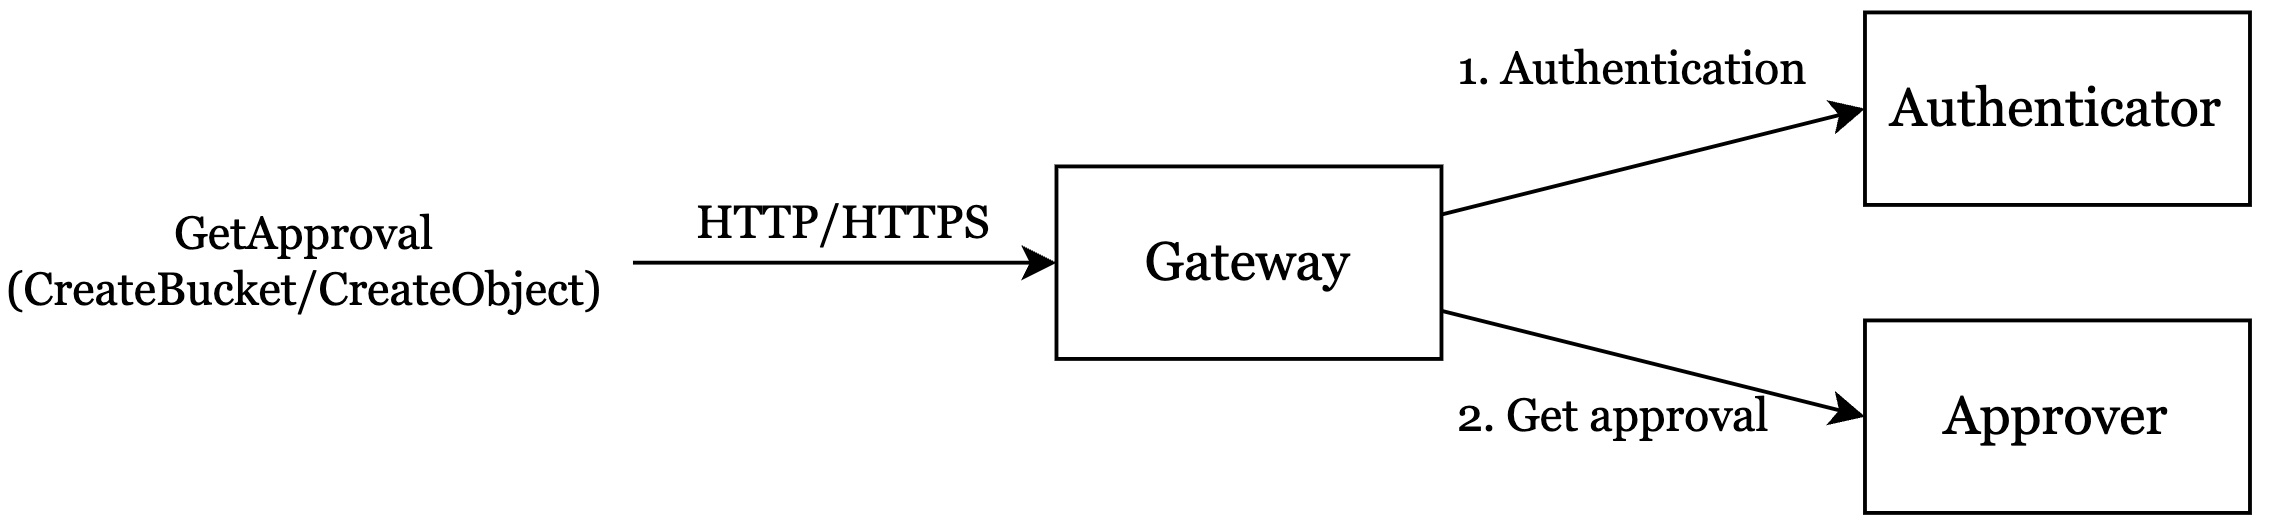
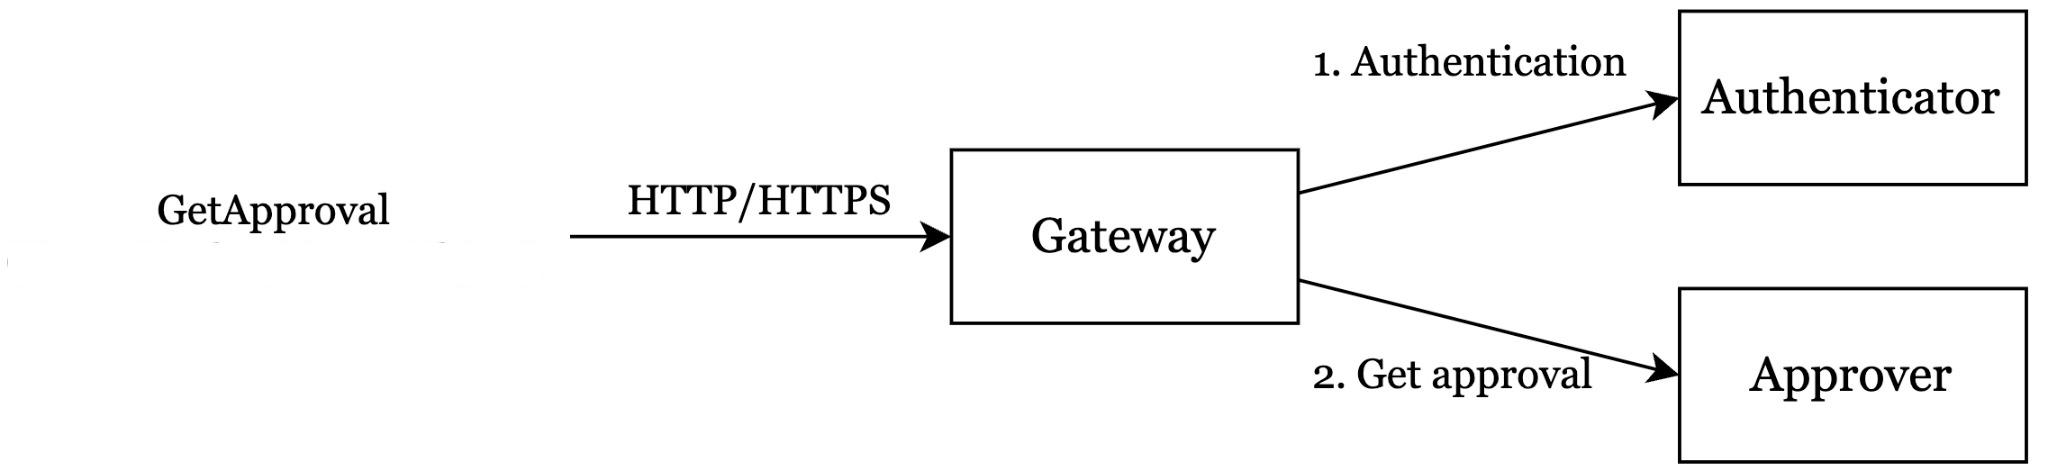
docs: remove create bucket&object (#334)
* docs: remove create bucket&object

* fix: update comments

Changed region(s): [[0.0, 0.5064, 0.2812, 0.5957], [0.8438, 0.983, 0.9688, 1.0]]

diff --git a/docs/api/storage-provider-rest/get_approval.md b/docs/api/storage-provider-rest/get_approval.md
@@ -6,7 +6,7 @@ title: Get Approval
 
 ## RESTful API Description
 
-This API is used to sign an approval for creating a bucket action or creating an object action. And it only supports `path-style` requests.
+This API is used to sign an approval for migrating bucket action. And it only supports `path-style` requests.
 
 ## HTTP Request Format
 
@@ -25,34 +25,15 @@ This API only supports path-style requests.
 | X-Gnfd-Unsigned-Msg                                                      | string | yes      | defines unsigned msg                         |
 | [Authorization](../storage-provider-rest/README.md#authorization-header) | string | yes      | The authorization string of the HTTP request |
 
-X-Gnfd-Unsigned-Msg header consists of [MsgCreateBucket](#msgcreatebucket) and [MsgCreateObject](#msgcreateobject). You can read [Greenfield headers](../storage-provider-rest/README.md) to know how to marshal and unmarshal them.
+X-Gnfd-Unsigned-Msg header consists of [MsgMigrateBucket](#msgmigratebucket). You can read [Greenfield headers](../storage-provider-rest/README.md) to know how to marshal and unmarshal them.
 
-### MsgCreateBucket
-
-| ParameterName     | Type                              | Description                                                                                                                                                                                                         |
-| ----------------- | --------------------------------- | ------------------------------------------------------------------------------------------------------------------------------------------------------------------------------------------------------------------- |
-| Creator           | string                            | Creator is the account address of bucket creator, it is also the bucket owner.                                                                                                                                      |
-| BucketName        | string                            | BucketName is a globally unique name of bucket.                                                                                                                                                                     |
-| Visibility        | [VisibilityType](#visibilitytype) | visibility means the bucket is private or public. If private, only bucket owner or grantee can read it, otherwise every greenfield user can read it.                                                                |
-| PaymentAddress    | string                            | PaymentAddress is an account address specified by bucket owner to pay the read fee. Default: creator.                                                                                                               |
-| PrimarySpAddress  | string                            | PrimarySpAddress  is the address of primary sp.                                                                                                                                                                     |
-| PrimarySpApproval | [Approval](#approval)             | PrimarySpApproval is the approval info of the primary SP which indicates that primary sp confirm the user's request.                                                                                                |
-| ChargedReadQuota  | unsigned integer                  | ChargedReadQuota defines the read data that users are charged for, measured in bytes. The available read data for each user is the sum of the free read data provided by SP and the ChargeReadQuota specified here. |
-
-### MsgCreateObject
-
-| ParameterName              | Type                              | Description                                                                                                                                                  |
-| -------------------------- | --------------------------------- | ------------------------------------------------------------------------------------------------------------------------------------------------------------ |
-| Creator                    | string                            | Creator is the account address of object uploader.                                                                                                           |
-| BucketName                 | string                            | BucketName is the name of the bucket where the object is stored.                                                                                             |
-| ObjectName                 | string                            | ObjectName is the name of object.                                                                                                                            |
-| PayloadSize                | integer                           | PayloadSize is size of the object's payload.                                                                                                                 |
-| Visibility                 | [VisibilityType](#visibilitytype) | VisibilityType means the object is private or public. If private, only object owner or grantee can access it, otherwise every greenfield user can access it. |
-| ContentType                | string                            | ContentType is a standard MIME type describing the format of the object.                                                                                     |
-| PrimarySpApproval          | [Approval](#approval)             | PrimarySpApproval is the approval info of the primary SP which indicates that primary sp confirm the user's request.                                         |
-| ExpectChecksums            | byteArray                         | ExpectChecksums is a list of hashes which was generate by redundancy algorithm.                                                                              |
-| RedundancyType             | [RedundancyType](#redundancytype) | RedundancyType specifies which redundancy type is used.                                                                                                      |
-| ExpectSecondarySpAddresses | stringArray                       | ExpectSecondarySpAddresses is a list of StorageProvider address which is optional.                                                                           |
+### MsgMigrateBucket
+| ParameterName        | Type                              | Description                                                                                                                                                                                                         |
+| ---------------------| --------------------------------- | ----------------------------------------------------------------------------------------------------------------------- |
+| Operator             | string                            | Operator defines the account address of the operator who initial the migrated bucket                                     |
+| BucketName           | string                            | BucketName is a globally unique name of bucket.                                                                         |
+| DstPrimarySpId       | uint32                            | DstPrimarySpId defines the destination SP for migration                                                                 |
+| DstPrimarySpApproval | [Approval](#approval)             | DstPrimarySpApproval is the approval info of the primary SP which indicates that primary sp confirm the user's request. |
 
 ### Approval
 
@@ -91,7 +72,7 @@ The request does not have a path parameter.
 
 | ParameterName | Type   | Required | Description                                             |
 | ------------- | ------ | -------- | ------------------------------------------------------- |
-| action        | string | yes      | The action of approval:`CreateBucket` or `CreateObject` |
+| action        | string | yes      | The action of approval:`MigrateBucket`                  |
 
 ### Request Body
 
@@ -136,19 +117,19 @@ X-Gnfd-Signed-Msg: SignedMsg
 
 The examples given all use path-style.
 
-### Example 1: Create bucket
+### Example 1: Migrate bucket
 
-The following request sends `CreateBucket` action to get approval.
+The following request sends `MigrateBucket` action to get approval.
 
 ```HTTP
-GET /greenfield/admin/v1/get-approval?action=CreateBucket HTTP/1.1
+GET /greenfield/admin/v1/get-approval?action=MigrateBucket HTTP/1.1
 Host: gnfd-testnet-sp1.bnbchain.org
 Date: Fri, 31 March 2023 17:32:00 GMT
 X-Gnfd-Unsigned-Msg: unsigned msg string
 Authorization: authorization string
 ```
 
-### Sample Response: Create bucket successfully
+### Sample Response: Migrate bucket successfully
 
 ```HTTP
 HTTP/1.1 200 OK
@@ -156,32 +137,12 @@ X-Gnfd-Request-ID: 14779951378820359452
 X-Gnfd-Signed-Msg: df5857b2ac67b491ba6d9c6632618be7fb22de13662356b593d74103408cf1af46eed90edaa77bdb65b12fc63ee3bec8314ad7bb0f3ae099ccf7dafe22abff2e01
 ```
 
-## Example 2: Create object
+## Example 2: Failed to migrate bucket
 
-The following request sends `CreateObject` action to get approval.
-
-```HTTP
-GET /greenfield/admin/v1/get-approval?action=CreateObject HTTP/1.1
-Host: gnfd-testnet-sp1.bnbchain.org
-Date: Fri, 31 March 2023 17:32:00 GMT
-X-Gnfd-Unsigned-Msg: unsigned msg string
-Authorization: authorization string
-```
-
-### Sample Response: Create object successfully
+The following request sends `MigrateBucket` action to get approval.
 
 ```HTTP
-HTTP/1.1 200 OK
-X-Gnfd-Request-ID: 4208447844380058399
-X-Gnfd-Signed-Msg: f00daace3251076f270984e596bbd72b1b1f2a1ae0443e6f32f37cef73d541d568a542333f6a9af2f235724d2a763b3cdc0b370d978d0315b8414fa51fc32a2e00
-```
-
-## Example 3: Failed to create bucket
-
-The following request sends `CreateBucket` action to get approval.
-
-```HTTP
-GET /greenfield/admin/v1/get-approval?action=CreateBucket HTTP/1.1
+GET /greenfield/admin/v1/get-approval?action=MigrateBucket HTTP/1.1
 Host: gnfd-testnet-sp1.bnbchain.org
 Date: Fri, 31 March 2023 17:32:00 GMT
 X-Gnfd-Unsigned-Msg: unsigned msg string
@@ -195,7 +156,7 @@ HTTP/1.1 403 Forbidden
 
 <Error>
     <Code>InvalidUnsignedMsg</Code>
-    <Message>The uinsigned message is not valid for creating bucket</Message>
+    <Message>The uinsigned message is not valid for migrating bucket</Message>
     <RequestId>14379357152578345503</RequestId>
 </Error>
 ```

diff --git a/docs/api/storage-provider-rest/get_bucket_meta.md b/docs/api/storage-provider-rest/get_bucket_meta.md
@@ -54,20 +54,22 @@ Host: BucketName.gnfd-testnet-sp*.bnbchain.org
 
 ### Bucket
 
-| ParameterName    | Type                              | Description                                                                                             |
-| ---------------- | --------------------------------- | ------------------------------------------------------------------------------------------------------- |
-| Owner            | string                            | Owner is the object owner                                                                               |
-| BucketName       | string                            | BucketName is the name of the bucket                                                                    |
-| Visibility       | [VisibilityType](#visibilitytype) | Visibility defines the highest permissions for bucket. When an bucket is public, everyone can access it |
-| Id               | Uint                              | Id is the unique identification for bucket                                                              |
-| SourceType       | [SourceType](#sourcetype)         | SourceType defines which chain the user should send the bucket management transactions to               |
-| CreateAt         | int64                             | CreateAt define the block timestamp when the bucket created                                             |
-| PrimarySPAddress | string                            | PrimarySPAddress is the unique address of the primary sp                                                |
-| PaymentAddress   | string                            | payment_address is the address of the payment account                                                   |
-| ChargedReadQuota | uint64                            | ChargedReadQuota defines the traffic quota for read in bytes per month.                                 |
-| BucketStatus     | [BucketStatus](#bucketstatus)     | BucketStatus define the status of the bucket                                                            |
-| Vgf              | [Vgf](#vgf)                       | Vgf define the global virtual group family info of bucket                                               |
-| StorageSize      | string                            | StorageSize defines the storage size of bucket                                                          |
+| ParameterName    | Type                              | Description                                                                                                                                                                                                       |
+| ---------------- | --------------------------------- | ----------------------------------------------------------------------------------------------------------------------------------------------------------------------------------------------------------------- |
+| Owner            | string                            | Owner is the object owner                                                                                                                                                                                         |
+| BucketName       | string                            | BucketName is the name of the bucket                                                                                                                                                                              |
+| Visibility       | [VisibilityType](#visibilitytype) | Visibility defines the highest permissions for bucket. When an bucket is public, everyone can access it                                                                                                           |
+| Id               | Uint                              | Id is the unique identification for bucket                                                                                                                                                                        |
+| SourceType       | [SourceType](#sourcetype)         | SourceType defines which chain the user should send the bucket management transactions to                                                                                                                         |
+| CreateAt         | int64                             | CreateAt define the block timestamp when the bucket created                                                                                                                                                       |
+| PrimarySPAddress | string                            | PrimarySPAddress is the unique address of the primary sp                                                                                                                                                          |
+| PaymentAddress   | string                            | payment_address is the address of the payment account                                                                                                                                                             |
+| ChargedReadQuota | uint64                            | ChargedReadQuota defines the traffic quota for read in bytes per month.                                                                                                                                           |
+| BucketStatus     | [BucketStatus](#bucketstatus)     | BucketStatus define the status of the bucket                                                                                                                                                                      |
+| Vgf              | [Vgf](#vgf)                       | Vgf define the global virtual group family info of bucket                                                                                                                                                         |
+| StorageSize      | string                            | StorageSize defines the storage size of bucket                                                                                                                                                                    |
+| OffChainStatus   | int32                             | OffChainStatus defines the status of a bucket in the off-chain storage.It is used to track the current state of the bucket with respect to off-chain operations,1 means 0001 -> OffChainStatusIsLimited is true.  |
+
 ### StreamRecord
 
 | ParameterName     | Type                                        | Description                                                                                                             |
@@ -184,6 +186,7 @@ Date: Fri, 31 March 2023 17:32:10 GMT
             <VirtualPaymentAddress>0x26281179b8885F21f95b0a246c8AD70957A95A23</VirtualPaymentAddress>
         </Vgf>
         <StorageSize>2386542</StorageSize>
+        <OffChainStatus>1</OffChainStatus>
     </Bucket>
     <StreamRecord>
         <Account>0xBC212bF5d6004311E350a531A1946D572C4d85E4</Account>

diff --git a/docs/guide/storage-provider/modules/approver.md b/docs/guide/storage-provider/modules/approver.md
@@ -1,6 +1,6 @@
 # Approver
 
-Approver module is used to handle approval requests including `CreateBucketApproval`, `MigrateBucketApproval` and `CreateObjectApproval`. The workflow of Approver users can refer [GetApproval](../introduction/workflow.md#get-approval). We currently abstract SP as the GfSp framework, which provides users with customizable capabilities to meet their specific requirements. Approver module provides an abstract interface, which is called `Approver`, as follows:
+Approver module is used to handle approval requests including `MigrateBucketApproval` . The workflow of Approver users can refer [GetApproval](../introduction/workflow.md#get-approval). We currently abstract SP as the GfSp framework, which provides users with customizable capabilities to meet their specific requirements. Approver module provides an abstract interface, which is called `Approver`, as follows:
 
 Approver is an abstract interface to handle ask approval requests.
 
@@ -36,33 +36,27 @@ type Approver interface {
 
 Approver interface inherits [Modular interface](./common/lifecycle_modular.md#modular-interface), so Approver module can be managed by lifecycle and resource manager.
 
-In terms of the functions provided by Approver module, it can be divided into two parts: CreateBucketApproval and CreateObjectApproval. Both CreateBucketApproval and CreateObjectApproval have three methods: PreXXX, HanldeXXX and PostXXX. Therefore, if you can rewrite these methods to meet your own requirements.
+The functionality of the Approver module is primarily centered around the MigrateBucketApproval process. This process encompasses three distinct phases, each managed by a dedicated method: PreXXX for preliminary actions, HandleXXX for core processing, and PostXXX for follow-up operations. Users have the flexibility to customize these methods to align with their specific needs, enabling a tailored approach to the migration process.
 
-As we can see from the second parameter of the methods defined in `Approver` interface, bucketApproval is splitted into `ApprovalCreateBucketTask` and objectApproval is splitted into `ApprovalCreateObjectTask`. They are also defined as an interface.
+The second parameter in PreMigrateBucketApproval(ctx context.Context, task task.ApprovalMigrateBucketTask), which is ApprovalMigrateBucketTask, is also an interface. This design facilitates future customization by the user.
 
-We can query ApprovalCreateBucket and ApprovalCreateObject tasks that we care about by `QueryTasks` method through using subKey.
+We can query ApprovalMigrateBucket task that we care about by `QueryTasks` method through using subKey.
 
-## ApprovalCreateBucketTask and ApprovalCreateObjectTask
+## ApprovalMigrateBucketTask
 
-ApprovalTask is used to record approval information for users creating buckets and objects. Primary SP approval is required before serving the bucket and object. If the SP approves the message, it will sign the approval message. The greenfield will verify the signature of the approval message to determine whether the SP accepts the bucket and object. ApprovalTask includes `ApprovalCreateBucketTask` and `ApprovalCreateBucketTask`.
+ApprovalTask is used to record approval information for users creating buckets and objects. Primary SP approval is required before serving the bucket and object. If the SP approves the message, it will sign the approval message. The greenfield will verify the signature of the approval message to determine whether the SP accepts the bucket and object. ApprovalTask includes `ApprovalMigrateBucketTask`.
 
 The corresponding interfaces definition is shown below:
 
 - [ApprovalTask](./common/task.md#approvaltask)
-- [ApprovalCreateBucketTask](./common/task.md#approvalcreatebuckettask)
 - [ApprovalMigrateBucketTask](./common/task.md#approvalmigratebuckettask)
-- [ApprovalCreateObjectTask](./common/task.md#approvalcreateobjecttask)
 
 ApprovalTask interface inherits [Task interface](./common/task.md#task), it describes what operations does a Task have. You can overwrite all these methods in your own.
 
 The corresponding `protobuf` definition is shown below:
 
-- [GfSpCreateBucketApprovalTask](./common/proto.md#gfspcreatebucketapprovaltask-proto)
 - [GfSpMigrateBucketApprovalTask](./common/proto.md#gfspmigratebucketapprovaltask-proto)
-- [GfSpCreateObjectApprovalTask](./common/proto.md#gfspcreateobjectapprovaltask-proto)
-- [MsgCreateBucket](./common/proto.md#msgcreatebucket-proto)
 - [MsgMigrateBucket](./common/proto.md#msgmigratebucket-proto)
-- [MsgCreateObject](./common/proto.md#msgcreateobject-proto)
 
 ## GfSp Framework Approver Code
 

diff --git a/docs/guide/storage-provider/introduction/workflow.md b/docs/guide/storage-provider/introduction/workflow.md
@@ -4,7 +4,7 @@ This section will combine all the current and existing workflows of SP to help y
 
 ## Get Approval
 
-[GetApproval](../../../api/storage-provider-rest/get_approval.md) API includes actions: `CreateBucket` and `CreateObject`. To upload an object into SP, you must first send a CreateBucket approval request, which will create a bucket on the Greenfield blockchain. If the request is successful, you can then send a CreateObject approval request. Both of these actions are used to determine whether SP is willing to serve the request. SP may reject users with a bad reputation or specific objects or buckets. SP approves the request by signing a message for the action and responding to the users. By default, SP will serve the request, but it can refuse if it chooses to do so. Each SP can customize its own strategy for accepting or rejecting requests.
+[GetApproval](../../../api/storage-provider-rest/get_approval.md) API includes actions: `MigrateBucket`. If the request is successful, you can then send a MigrateBucket approval request. This action is used to determine whether SP is willing to serve the request. SP may reject users with a bad reputation or specific objects or buckets. SP approves the request by signing a message for the action and responding to the users. By default, SP will serve the request, but it can refuse if it chooses to do so. Each SP can customize its own strategy for accepting or rejecting requests.
 
 The flow chart is shown below:
 
@@ -13,22 +13,31 @@ The flow chart is shown below:
 - Gateway receives GetApproval requests from the request originator.
 - Gateway verifies the signature of request to ensure that the request has not been tampered with.
 - Gateway invokes Authenticator to check the authorization to ensure the corresponding account is existed.
-- Gateway invokes Approver to fills the CreateBucket/CreateObject message timeout field and dispatches the request to Signer service.
+- Gateway invokes Approver to fills the MigrateBucket message timeout field and dispatches the request to Signer service.
 - Gets Signature from Signer, fills the message's approval signature field, and returns to the request originator.
 
 **Note**
 
-By default, each account can create a maximum of 100 buckets.
-
-If users send multiple `CreateBucket` or `CreateObject` approval requests in a short period of time, SP will provide the same results due to an expired blockchain height that is set to prevent repeated requests, such as DDoS attacks.
+If users send multiple `MigrateBucket` approval requests in a short period of time, SP will provide the same results due to an expired blockchain height that is set to prevent repeated requests, such as DDoS attacks.
 
 See request and response details for this API: [GetApproval](../../../api/storage-provider-rest/get_approval.md).
 
 Users do not need to ask approval to update existing objects, they can directly send the `MsgUpdateObjectContent` to Greenfield Chain.
 
+## Create Bucket
+<div align="center"><img src="https://raw.githubusercontent.com/bnb-chain/greenfield-docs/main/static/asset/07-create_bucket_object.png" /></div>
+
+The `Create Bucket` operation initiates a request through the Go SDK. It then queries the greenfield-chain interface to obtain an optimal Global Virtual Group Family ID. This ID is used to request the creation of a bucket on the greenfield chain.
+
+Service Providers periodically refresh and monitor all SPs within the Global Virtual Group Family to check if there is available storage space within the Global Virtual Groups (GVG). If no space is available, they request the greenfield chain to create a new GVG. This update is to provide an available VGF for the `Create Bucket` operation to select from.
+
+## Create Object
+
+After creating a bucket, the user sends a create object request through the Go SDK, selecting the corresponding bucket name. This object is then sent as a transaction to Greenfield. After waiting for the object to reach the status of OBJECT_STATUS_CREATED, the object is successfully created.
+
 ## Upload Object
 
-For new object, after successfully sending requests to the [GetApproval](https://greenfield.bnbchain.org/docs/api-sdk/storage-provider-rest/get_approval.html) API and receiving results, then the new object is created on Greenfield chain. 
+For new object, after successfully creating on Greenfield chain.
 
 you can upload an object to SP. For updating an existing object, you can upload directly once confirmed the `MsgUpdateObjectContent` tx on Greenfield chain.
 

diff --git a/docs/guide/storage-provider/introduction/standard.md b/docs/guide/storage-provider/introduction/standard.md
@@ -80,7 +80,7 @@ The open source storage provider framework implements the Greenfield storage pro
 
 ### Modules
 
-* [Approver](https://github.com/bnb-chain/greenfield-storage-provider/blob/master/core/module/README.md) : Approver is a module to handle approval requests, such as CreateBucketApproval and CreateObjectApproval.
+* [Approver](https://github.com/bnb-chain/greenfield-storage-provider/blob/master/core/module/README.md) : Approver is a module to handle approval requests, such as MigrateBucketApproval.
 * [Authorizer](https://github.com/bnb-chain/greenfield-storage-provider/blob/master/core/module/README.md): Authorizer is a module to authority verification.
 * [Downloader](https://github.com/bnb-chain/greenfield-storage-provider/blob/master/core/module/README.md): Downloader is a module to handle download requests from users, and get challenge info requests from other components in the system.
 * [TaskExecutor](https://github.com/bnb-chain/greenfield-storage-provider/blob/master/core/module/README.md): TaskExecutor is a module to handle background task, it will ask task from Manager modular, handle the tasks and report the results or status to the manager module includes: `ReplicatePieceTask`, `SealObjectTask`, `ReceivePieceTask`, `GCObjectTask`, `GCZombiePieceTask`, `GCMetaTask`.

diff --git a/docs/guide/storage-provider/modules/common/task.md b/docs/guide/storage-provider/modules/common/task.md
@@ -100,7 +100,7 @@ before serving the bucket and object. If SP approves the message, it will sign t
 verify the signature of the approval message to determine whether the SP accepts the bucket and object. When primary replicating
 pieces to secondary SPs, the approval message is broadcast to other SPs. If they approve the message, the primary SP will
 select some of them to replicate the pieces to. Before receiving the pieces, the selected SPs will verify the signature
-of the approval message. `ApprovalTask` includes `ApprovalCreateBucketTask`, `ApprovalCreateBucketTask` and `ApprovalReplicatePieceTask`.
+of the approval message. `ApprovalTask` includes `ApprovalReplicatePieceTask`.
 
 `ObjectTask` is associated with an object and records information about its different stages. This includes `UploadObjectTask`
 which uploads the object payload data to the primary SP, `ReplicatePieceTask`, which replicates the object pieces to the

diff --git a/docs/guide/greenfield-blockchain/modules/storage-provider.md b/docs/guide/greenfield-blockchain/modules/storage-provider.md
@@ -78,7 +78,7 @@ message StorageProvider {
   string funding_address = 3 [(cosmos_proto.scalar) = "cosmos.AddressString"];
   // seal_address defines one of the storage provider's accounts which is used to SealObject
   string seal_address = 4 [(cosmos_proto.scalar) = "cosmos.AddressString"];
-  // approval_address defines one of the storage provider's accounts which is used to approve use's createBucket/createObject request
+  // approval_address defines one of the storage provider's accounts which is used to approve use's migrateBucket request
   string approval_address = 5 [(cosmos_proto.scalar) = "cosmos.AddressString"];
   // gc_address defines one of the storage provider's accounts which is used for gc purpose.
   string gc_address = 6 [(cosmos_proto.scalar) = "cosmos.AddressString"];

diff --git a/docs/guide/storage-provider/modules/signer.md b/docs/guide/storage-provider/modules/signer.md
@@ -62,18 +62,6 @@ Signer interface inherits [Modular interface](./common/lifecycle_modular.md#modu
 
 In terms of the functions provided by Signer module, there are ten methods. You can rewrite these methods to meet your own requirements.
 
-## SignCreateBucketApproval
-
-The corresponding `protobuf` definition is shown below:
-
-- [MsgCreateBucket](./common/proto.md#msgcreatebucket-proto)
-
-## SignCreateObjectApproval
-
-The corresponding `protobuf` definition is shown below:
-
-- [MsgCreateObject](./common/proto.md#msgcreateobject-proto)
-
 ## SignReplicatePieceApproval
 
 The second params of SignReplicatePieceApproval is a task interface, the corresponding interface definition is shown below:

diff --git a/docs/guide/storage-provider/introduction/overview.md b/docs/guide/storage-provider/introduction/overview.md
@@ -36,7 +36,7 @@ forwards them to other modules within SP. Since Gater does not allow customizati
 
 - **Authenticator**: It is responsible for verifying authentication.
 
-- **Approver**: It is responsible for handling approval requests, specifically `CreateBucketApproval` and `CreateObjectApproval`, etc.
+- **Approver**: It is responsible for handling approval requests, specifically `MigrateBucketApproval`, etc.
 
 - **Uploader**: It handles the `PutObject` requests from user accounts and stores payload data into piece store of the primary SP.
 

diff --git a/docs/api/storage-provider-rest/get_user_buckets.md b/docs/api/storage-provider-rest/get_user_buckets.md
@@ -122,6 +122,7 @@ Date: Fri, 31 March 2023 17:32:10 GMT
             <VirtualPaymentAddress>0x25f7c6161eEFFCA4A69059FdC022AC36cE9Bf3C8</VirtualPaymentAddress>
         </Vgf>
         <StorageSize>111111</StorageSize>
+        <OffChainStatus>1</OffChainStatus>
     </Buckets>
     <Buckets>
         <BucketInfo>

diff --git a/docs/api/storage-provider-rest/list_buckets_by_ids.md b/docs/api/storage-provider-rest/list_buckets_by_ids.md
@@ -114,6 +114,7 @@ Date: Fri, 31 March 2023 17:32:10 GMT
             <UpdateAt>82179</UpdateAt>
             <UpdateTime>1692450975</UpdateTime>
             <StorageSize>2386542</StorageSize>
+            <OffChainStatus>1</OffChainStatus>
         </Value>
     </BucketEntry>
     <BucketEntry>
